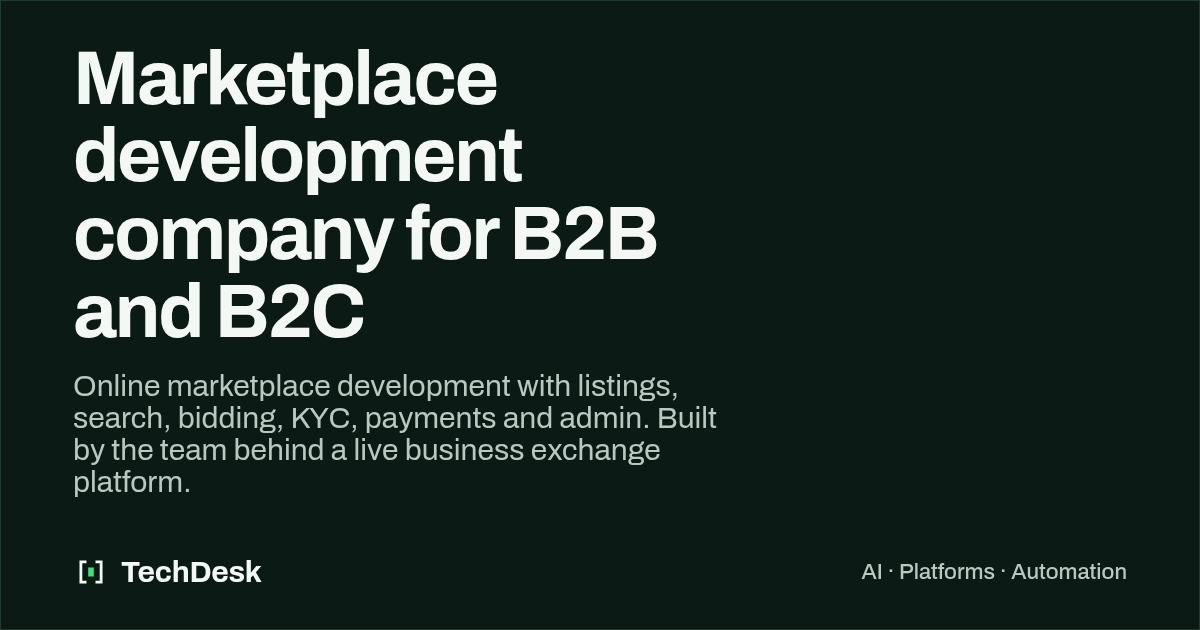
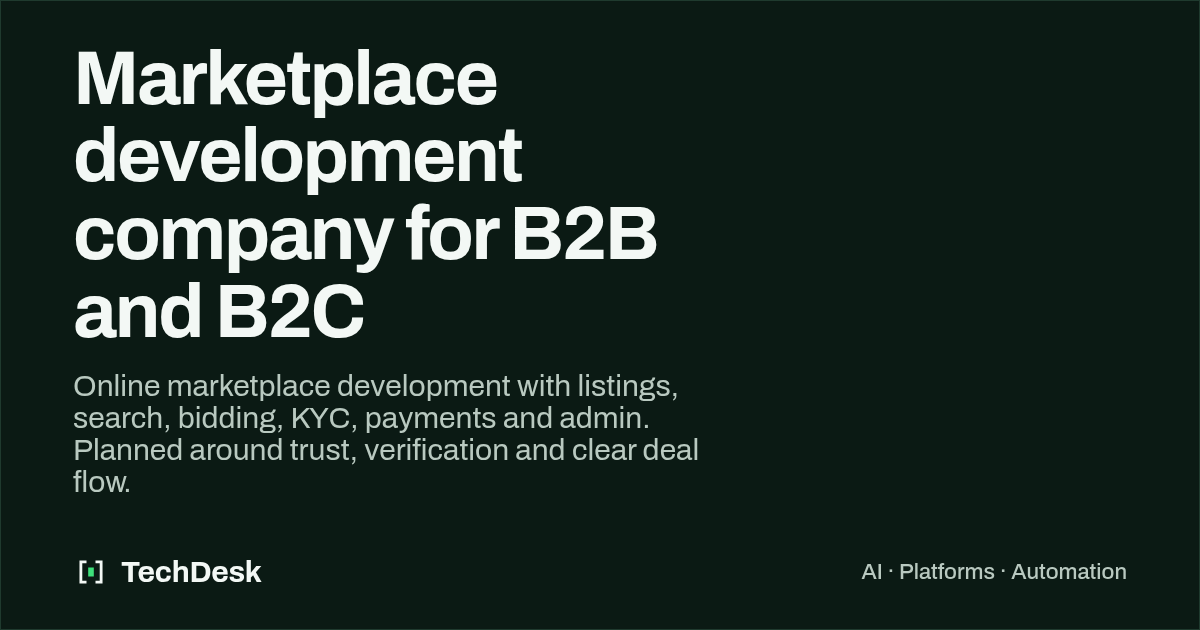
Replace business exchange with enterprise software (ERP, HRMS)
Owner request: present ERP, HRMS and management systems as a flagship
case study instead of the business exchange platform. Adds the
/solutions/erp-hrms-software-development landing page and updates the
home hero, industries, strengths, solution copy, tests and docs.

Claude-Session: https://claude.ai/code/session_01LQUokjMyENnxd84ir2cuDZ

Changed region(s): [[0.0617, 0.6333, 0.6167, 0.7841]]

diff --git a/src/data/solutions.ts b/src/data/solutions.ts
@@ -172,11 +172,11 @@ export const solutions: Solution[] = [
     secondary: ["online marketplace development", "B2B marketplace development", "marketplace platform development"],
     title: "Marketplace development company for B2B and B2C",
     description:
-      "Online marketplace development with listings, search, bidding, KYC, payments and admin. Built by the team behind a live business exchange platform.",
+      "Online marketplace development with listings, search, bidding, KYC, payments and admin. Planned around trust, verification and clear deal flow.",
     h1: "Marketplace development for platforms where trust decides the deal",
     intro: [
       "A marketplace lives or dies on trust and liquidity: buyers must find the right listing quickly, and both sides must believe the other is real. We build marketplaces where verification, structure and clear timelines are part of the product.",
-      "We engineered a business exchange platform for buying and selling businesses through structured, auditable deal processes, with mandates, auctions, watchlists and identity verification.",
+      "We design the deal flow first (who lists, who buys, what must be verified) and build listings, search, bidding and admin around it, on the same engineering base as our e-commerce and enterprise platforms.",
     ],
     build: [
       "Listings with rich filters for category, location, size and price",
@@ -197,9 +197,9 @@ export const solutions: Solution[] = [
     ],
     why: [
       {
-        title: "Proof in production",
+        title: "Built on real platforms",
         detail:
-          "Our business exchange platform is live, with Aadhaar KYC through Digio and Standard and Enterprise subscription tiers.",
+          "Payments, inventory, roles and approvals come from systems we have already shipped, such as our e-commerce platform and enterprise software.",
       },
       {
         title: "Search-ready by default",
@@ -210,7 +210,7 @@ export const solutions: Solution[] = [
         detail: "We model the deal as steps you can audit, which is what serious buyers and sellers expect.",
       },
     ],
-    proof: ["business-exchange-platform", "ecommerce-platform"],
+    proof: ["ecommerce-platform", "enterprise-software"],
     services: ["web-product-engineering", "software-engineering"],
     estimateType: "web-app",
     faq: [
@@ -225,6 +225,64 @@ export const solutions: Solution[] = [
       {
         q: "How long does a marketplace MVP take?",
         a: "A focused marketplace MVP with listings, search, accounts and admin usually takes 6 to 10 weeks.",
+      },
+    ],
+  },
+  {
+    slug: "erp-hrms-software-development",
+    keyword: "ERP software development company",
+    secondary: ["HRMS software development", "custom ERP development", "enterprise management software"],
+    title: "ERP and HRMS software development company",
+    description:
+      "Custom ERP, HRMS and management software: inventory, purchase, attendance, payroll, approvals and reporting, built around how your company works.",
+    h1: "ERP, HRMS and management software built around your business",
+    intro: [
+      "Off-the-shelf ERP makes you change how you work to fit the software. We build enterprise software the other way round: your departments, roles and approvals become the system, on one shared data core.",
+      "Our enterprise work covers ERP for operations and inventory, HRMS for people, attendance and payroll, and management systems for projects, assets and approvals.",
+    ],
+    build: [
+      "ERP modules for purchase, sales, inventory and vendors",
+      "HRMS with employee records, attendance, leave and payroll",
+      "Approval workflows with a full audit trail",
+      "Role-based access by department, branch and action",
+      "Dashboards and exportable management reports",
+      "Integrations with accounting, biometric devices and existing tools",
+    ],
+    steps: [
+      { name: "Map the business", detail: "Departments, roles, approvals and the reports management actually reads." },
+      { name: "Build the core module", detail: "The one workflow that hurts most today, live first." },
+      { name: "Connect the rest", detail: "Add modules on the same data, so nothing is entered twice." },
+      { name: "Roll out", detail: "Data migration, team training and support after go-live." },
+    ],
+    why: [
+      {
+        title: "Fits how you work",
+        detail: "Modules follow your process and hierarchy instead of forcing a generic template on every team.",
+      },
+      {
+        title: "One source of truth",
+        detail: "Operations, people and finance share one data core, so reports agree across departments.",
+      },
+      {
+        title: "Access done properly",
+        detail: "Permissions are enforced on the server for every action, not just hidden in the interface.",
+      },
+    ],
+    proof: ["enterprise-software", "e-bidding-automation", "real-estate-crm"],
+    services: ["software-engineering", "digital-transformation"],
+    estimateType: "web-app",
+    faq: [
+      {
+        q: "Should we build a custom ERP or buy one?",
+        a: "Buy when a standard product fits your process. Build when your workflows, approvals or reporting are what set you apart, or when licences per user get expensive as you grow.",
+      },
+      {
+        q: "Can you migrate data from spreadsheets or our old system?",
+        a: "Yes. We map your existing data, clean it and import it, then run both side by side until the team is confident.",
+      },
+      {
+        q: "Can we start with HRMS only and add ERP later?",
+        a: "Yes. Each module sits on the same core, so you can start with the one you need most and add the rest later.",
       },
     ],
   },
@@ -395,10 +453,10 @@ export const solutions: Solution[] = [
       { title: "Visible progress", detail: "Weekly demos and a repository you own, so nothing happens out of sight." },
       {
         title: "Proven stack",
-        detail: "The same engineers built our algo trading, business exchange, e-bidding and gaming platforms.",
+        detail: "The same engineers built our algo trading, ERP and HRMS, e-bidding and gaming platforms.",
       },
     ],
-    proof: ["algo-trading-platform", "business-exchange-platform", "gaming-platform"],
+    proof: ["algo-trading-platform", "enterprise-software", "gaming-platform"],
     services: ["web-product-engineering", "ai-automation"],
     estimateType: "web-app",
     faq: [
@@ -426,7 +484,7 @@ export const solutions: Solution[] = [
     h1: "Fintech software development where every number has to be right",
     intro: [
       "Financial software is judged on correctness. Money must never be lost to a rounding error, an order must never fire twice, and every sensitive action must leave an audit trail. We build with those rules enforced in code and in the database.",
-      "Our fintech work includes a live algo trading platform, a business exchange with KYC, a multi-brand platform foundation with a double-entry ledger, and a financial analytics tool.",
+      "Our fintech work includes a live algo trading platform, payroll inside our HRMS, a multi-brand platform foundation with a double-entry ledger, and a financial analytics tool.",
     ],
     build: [
       "Trading and investment platforms",
@@ -451,20 +509,20 @@ export const solutions: Solution[] = [
       {
         title: "Trust built in",
         detail:
-          "Our trading and business exchange platforms ship consent records, audit logs and KYC as core features.",
+          "Our trading platform ships consent records and audit logs as core features, and our ERP and HRMS keep an audit trail on every approval.",
       },
       {
         title: "Compliance-aware engineering",
         detail: "Server-side, deny-by-default rules, never hidden only in the interface.",
       },
     ],
-    proof: ["algo-trading-platform", "business-exchange-platform", "gaming-platform", "financial-analytics"],
+    proof: ["algo-trading-platform", "gaming-platform", "financial-analytics", "enterprise-software"],
     services: ["software-engineering", "web-product-engineering"],
     estimateType: "web-app",
     faq: [
       {
         q: "Do you handle KYC integrations?",
-        a: "Yes. Our business exchange platform uses Aadhaar verification through Digio inside onboarding, and we can integrate other KYC providers.",
+        a: "Yes. We integrate KYC and identity providers (for example Aadhaar-based verification) inside onboarding, so users are verified before they can transact.",
       },
       {
         q: "Are you a licensed financial institution?",
@@ -493,7 +551,7 @@ export const solutions: Solution[] = [
       "Meet us in person or talk on WhatsApp: you work directly with the engineers who build your product, and see it working every week.",
     ],
     build: [
-      "Custom software and internal business tools",
+      "ERP, HRMS and internal business software",
       "Websites and web applications",
       "SaaS platforms and dashboards",
       "AI agents, chatbots and WhatsApp automation",
@@ -514,11 +572,11 @@ export const solutions: Solution[] = [
       {
         title: "Work at a global standard",
         detail:
-          "The same team built platforms such as an algo trading platform and a business exchange, used beyond Indore.",
+          "The same team built platforms such as an algo trading platform and ERP and HRMS software, used beyond Indore.",
       },
       { title: "Clear pricing in rupees", detail: "Indicative INR ranges for every kind of project, before we meet." },
     ],
-    proof: ["algo-trading-platform", "business-exchange-platform", "e-bidding-automation"],
+    proof: ["algo-trading-platform", "enterprise-software", "e-bidding-automation"],
     services: ["web-product-engineering", "ai-automation", "digital-marketing"],
     estimateType: "web-app",
     faq: [

diff --git a/src/data/projects.ts b/src/data/projects.ts
@@ -34,7 +34,6 @@ type CaseStudy = {
 
 export type IndustryKey =
   | "fintech"
-  | "marketplaces"
   | "ecommerce"
   | "healthcare"
   | "education"
@@ -45,42 +44,41 @@ export type IndustryKey =
 
 export const projects: Project[] = [
   {
-    slug: "business-exchange-platform",
+    slug: "enterprise-software",
     metaDescription:
-      "Case study: a business exchange platform for buying and selling companies with mandates, auctions, watchlists and Aadhaar KYC. Engineered by TechDesk.",
+      "Case study: enterprise software by TechDesk. ERP, HRMS and management systems for operations, people and reporting, with role-based access.",
     code: "01",
-    title: "Business Exchange Platform",
-    tagline: "Buying and selling businesses through structured deals",
-    industry: "Marketplaces · M&A",
-    industries: ["marketplaces", "fintech"],
-    services: ["web-product-engineering", "software-engineering"],
-    status: "Live",
+    title: "Enterprise Software Suite",
+    tagline: "ERP, HRMS and management systems",
+    industry: "Enterprise · ERP and HRMS",
+    industries: ["enterprise", "saas"],
+    services: ["software-engineering", "digital-transformation", "web-product-engineering"],
+    status: "Delivered",
     summary:
-      "A platform for buying and selling businesses through structured, auditable deal processes: clear timelines, verified parties and professional execution.",
-    stack: ["React", "Vite", "Material UI", "Digio KYC", "Aadhaar verification"],
+      "Enterprise software that runs the business: ERP for operations and inventory, HRMS for people, attendance and payroll, and management systems that bring approvals and reporting into one place.",
+    stack: ["React", "TypeScript", "Node.js", "MongoDB", "PostgreSQL"],
     caseStudy: {
       problem: [
-        "Buying or selling a business usually runs on email threads, spreadsheets and counterparties nobody has verified.",
-        "Serious buyers need to find the right mandates quickly; sellers need every step to be traceable.",
+        "Growing companies run operations, people and finance on spreadsheets and disconnected tools, so nobody sees one version of the truth.",
+        "Approvals happen over chat and email, which leaves no trail and slows every decision.",
       ],
       approach:
-        "Model the deal as a structured process instead of a listing board. Every mandate, bid and expression of interest becomes an auditable step, with identity verification built into the flow instead of bolted on after.",
+        "Model the business, not the screens. Each department becomes a module on one shared data core, with roles and approvals defined once and enforced everywhere, so a purchase, a leave request or a payroll run follows the same auditable path.",
       architecture: [
-        { node: "Discovery", role: "Mandates filtered by industry, location, asset type and ticket size" },
-        { node: "Watchlists", role: "Private watchlists plus an auto-watchlist that tracks new matches" },
-        { node: "Deal flow", role: "Expressions of interest, auctions and bidding, verified events" },
-        { node: "Trust layer", role: "Aadhaar KYC through Digio before a party can transact" },
-        { node: "Plans", role: "Standard and Enterprise subscriptions gate advanced features" },
+        { node: "ERP", role: "Purchase, sales, inventory and vendor management on one record" },
+        { node: "HRMS", role: "Employee records, attendance, leave and payroll" },
+        { node: "Management", role: "Projects, tasks, assets and approval workflows" },
+        { node: "Access layer", role: "Role-based permissions per department, branch and action" },
+        { node: "Reporting", role: "Dashboards and exports across every module" },
       ],
       features: [
-        "Mandate discovery with multi-select filters for industry, location, asset type and ticket size",
-        "Auctions and bidding with a calendar view of active events",
-        "Expressions of interest and a contact-seller flow gated by preferences",
-        "Private watchlists and an auto-watchlist that can be toggled",
-        "Identity verification (Aadhaar through Digio) inside the onboarding flow",
-        "Per-page search metadata and Open Graph images for shareable listings",
+        "Modular ERP covering purchase, sales, inventory and vendors",
+        "HRMS with employee records, attendance, leave and payroll",
+        "Multi-step approval workflows with a full audit trail",
+        "Role-based access by department, branch and action",
+        "Dashboards and exportable reports for management",
       ],
-      role: "Product engineering",
+      role: "Design and engineering",
       visualsPending: true,
     },
   },

diff --git a/src/data/industries.ts b/src/data/industries.ts
@@ -21,19 +21,11 @@ export const industries: Industry[] = [
     project: "algo-trading-platform",
   },
   {
-    key: "marketplaces",
-    name: "Marketplaces",
-    example:
-      "A business exchange with mandates, auctions, watchlists and identity verification built into the deal flow.",
-    services: ["web-product-engineering", "software-engineering"],
-    project: "business-exchange-platform",
-  },
-  {
     key: "enterprise",
-    name: "Enterprise & procurement",
-    example: "Browser automation that prepares vendor bids ahead of time and saves them the instant the window opens.",
-    services: ["ai-automation", "digital-transformation"],
-    project: "e-bidding-automation",
+    name: "Enterprise software",
+    example: "ERP, HRMS and management systems that put operations, people, approvals and reporting on one platform.",
+    services: ["software-engineering", "digital-transformation"],
+    project: "enterprise-software",
   },
   {
     key: "gaming",

diff --git a/tests/e2e/flows.spec.ts b/tests/e2e/flows.spec.ts
@@ -43,10 +43,10 @@ test("industries tabs work with the keyboard", async ({ page, isMobile }) => {
   const first = page.getByRole("tab", { name: "Fintech" });
   await first.focus();
   await page.keyboard.press("ArrowDown");
-  const second = page.getByRole("tab", { name: "Marketplaces" });
+  const second = page.getByRole("tab", { name: "Enterprise software" });
   await expect(second).toBeFocused();
   await expect(second).toHaveAttribute("aria-selected", "true");
-  await expect(page.getByRole("tabpanel")).toContainText("business exchange");
+  await expect(page.getByRole("tabpanel")).toContainText("ERP, HRMS");
 });
 
 test("calculator: currency switch, then hand the estimate to the brief", async ({ page }) => {

diff --git a/src/routes/system.tsx b/src/routes/system.tsx
@@ -28,12 +28,8 @@ const swatches = [
 const type = [
   ["text-display font-display", "Display", "Systems for what's next"],
   ["text-headline font-display", "Headline", "Intelligence that acts."],
-  ["text-title font-medium", "Title", "Business Exchange Platform"],
-  [
-    "text-body",
-    "Body",
-    "Structured, auditable deal processes for buying and selling businesses, from mandate to close.",
-  ],
+  ["text-title font-medium", "Title", "Enterprise Software Suite"],
+  ["text-body", "Body", "ERP, HRMS and management systems that put operations, people and approvals on one platform."],
   ["text-small text-muted", "Small", "Indicative range, not a quote."],
 ] as const;
 

diff --git a/src/routes/solutions.tsx b/src/routes/solutions.tsx
@@ -7,7 +7,7 @@ export const meta = () =>
   seo({
     title: "Software solutions: AI agents, SaaS, fintech | TechDesk",
     description:
-      "WhatsApp AI agents, algo trading software, marketplaces, SaaS, Chrome extensions and dedicated developers in India. Solutions backed by real projects.",
+      "WhatsApp AI agents, algo trading, ERP and HRMS, marketplaces, SaaS, Chrome extensions and dedicated developers in India. Backed by real projects.",
     path: "/solutions",
     breadcrumbs: [["Solutions", "/solutions"]],
   });

diff --git a/src/routes/work.tsx b/src/routes/work.tsx
@@ -10,7 +10,7 @@ export const meta = () =>
   seo({
     title: "Case studies: AI, SaaS and automation projects | TechDesk",
     description:
-      "Case studies of AI, SaaS and automation systems built by TechDesk: trading automation, a business exchange, procurement and gaming platforms.",
+      "Case studies of AI, SaaS and automation systems built by TechDesk: trading automation, ERP and HRMS, procurement and gaming platforms.",
     path: "/work",
     breadcrumbs: [["Work", "/work"]],
   });

diff --git a/tests/e2e/site.spec.ts b/tests/e2e/site.spec.ts
@@ -47,7 +47,7 @@ test("unknown URLs return 404 with the designed page", async ({ page }) => {
 
 test("sitemap and robots are generated", async ({ request }) => {
   const sitemap = await (await request.get("/sitemap.xml")).text();
-  expect(sitemap).toContain("/work/business-exchange-platform");
+  expect(sitemap).toContain("/work/enterprise-software");
   expect(sitemap).not.toContain("/system");
   expect(await (await request.get("/robots.txt")).text()).toContain("Disallow: /system");
 });

diff --git a/src/data/company.ts b/src/data/company.ts
@@ -53,7 +53,7 @@ export const strengths = [
   {
     title: "Products that handle money and trust",
     detail:
-      "Ledgers, KYC, consent and audit logs, built to be correct first (our trading, business exchange and gaming platforms).",
+      "Ledgers, payroll, consent and audit logs, built to be correct first (our trading, ERP and HRMS, and gaming platforms).",
   },
   {
     title: "AI that stays up",

diff --git a/src/sections/home/Hero.tsx b/src/sections/home/Hero.tsx
@@ -15,9 +15,9 @@ const SIGNALS = [
     delay: "0s",
   },
   {
-    label: "Business exchange",
-    status: "Live",
-    detail: "Business exchange with KYC",
+    label: "Enterprise software",
+    status: "Delivered",
+    detail: "ERP, HRMS and management systems",
     pos: "top-[40%] -right-[2%]",
     delay: "1.2s",
   },

diff --git a/src/lib/seo.ts b/src/lib/seo.ts
@@ -121,6 +121,8 @@ const organizationLd: Ld = {
     "Custom software development",
     "Algorithmic trading software",
     "Marketplace development",
+    "ERP software development",
+    "HRMS software development",
     "Chrome extension development",
     "Technical SEO",
   ],

diff --git a/docs/CHANGELOG.md b/docs/CHANGELOG.md
@@ -1,5 +1,14 @@
 # Changelog
 
+## [Unreleased]
+### Changed
+- Replaced the Business Exchange Platform everywhere on the site with an Enterprise Software Suite (ERP, HRMS and management systems), so our enterprise work is presented as a flagship case study (owner request). Homepage hero card, industries tab ("Enterprise software" replaces "Marketplaces"), strengths, work page meta, solution pages and the /system specimen updated. Marketplace and fintech pages no longer claim business exchange or Digio KYC work.
+### Added
+- `/solutions/erp-hrms-software-development` landing page (keyword "ERP software development company"); ERP and HRMS added to Organization `knowsAbout`.
+### Removed
+- `/work/business-exchange-platform` case study and its OG image; new `/work/enterprise-software` replaces it.
+**Files:** src/data/{projects,industries,solutions,company}.ts, src/sections/home/Hero.tsx, src/routes/{work,system,solutions}.tsx, src/lib/seo.ts, public/og/*, tests/e2e/{site,flows}.spec.ts, CLAUDE.md, docs/SEO_KEYWORDS.md · **API/Schema:** none · **Migration:** none (old /work/business-exchange-platform URL now 404s; add an Amplify redirect to /work/enterprise-software if it was indexed) · **Breaking:** no · **Tests:** see verify run
+
 ## 0.2.0 (2026-09-27): static-only
 - Removed the AI chat assistant and its Amplify Lambda backend (owner: deploy on Amplify with no server for now). Dock is now WhatsApp + Call; the home AI section links to /contact.
 - Dropped AWS backend devDependencies (`@aws-amplify/backend*`, `aws-cdk-lib`, `constructs`) and the `mysql2`/`immutable` overrides; `amplify.yml` is frontend-only.
